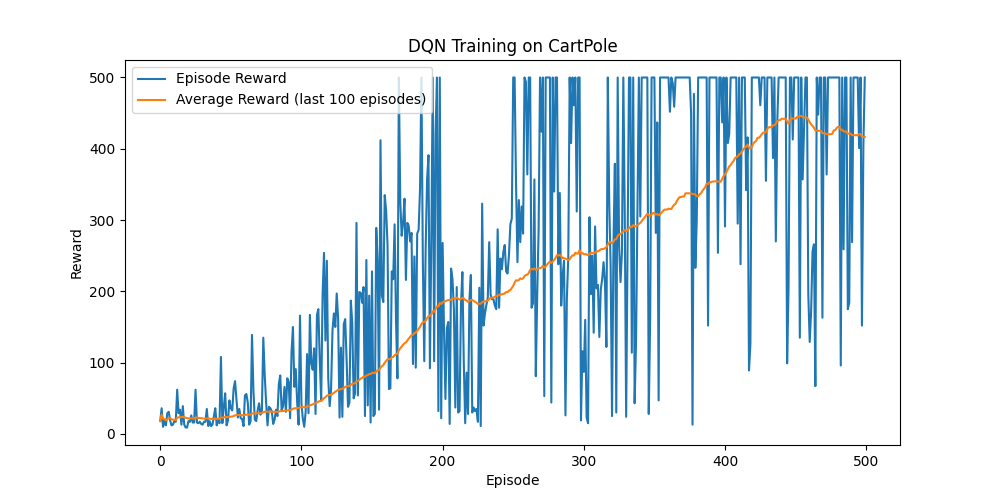
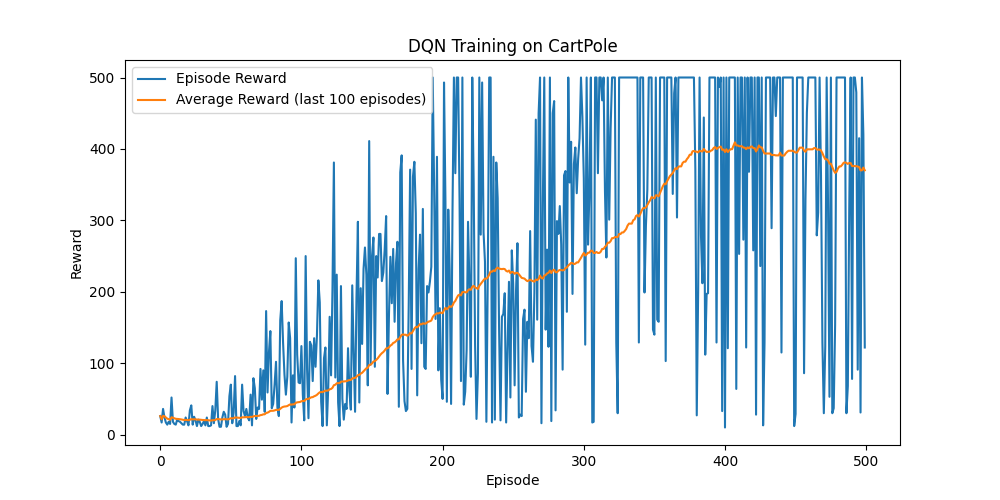
perf: 优化GPU训练性能 - 增加网络规模(64→256隐藏层，增加一层) - 根据设备类型自动选择批量大小(GPU:512, CPU:64) - 添加hidden_dim参数支持动态网络大小 - 解决小规模网络GPU训练慢的问题 - 提高GPU并行计算利用率

Changed region(s): [[0.155, 0.15, 0.868, 0.87], [0.093, 0.72, 0.124, 0.75]]

diff --git a/CartPole_DQN/train.py b/CartPole_DQN/train.py
@@ -14,7 +14,10 @@ def parse_args():
     parser.add_argument("--env_name", type=str, default="CartPole-v1", help="环境名称")
     parser.add_argument("--num_episodes", type=int, default=500, help="训练的总episode数")
     parser.add_argument("--max_steps", type=int, default=500, help="每个episode的最大步数")
-    parser.add_argument("--batch_size", type=int, default=64, help="批量大小")
+    parser.add_argument("--batch_size", type=int, default=256, help="批量大小")
+    parser.add_argument("--hidden_dim", type=int, default=256, help="隐藏层大小")
+    parser.add_argument("--gpu_batch_size", type=int, default=512, help="GPU训练时的批量大小")
+    parser.add_argument("--cpu_batch_size", type=int, default=64, help="CPU训练时的批量大小")
     parser.add_argument("--learning_rate", type=float, default=1e-3, help="学习率")
     parser.add_argument("--gamma", type=float, default=0.99, help="折扣因子")
     parser.add_argument("--epsilon_start", type=float, default=1.0, help="初始epsilon值")
@@ -206,6 +209,9 @@ if __name__ == "__main__":
     num_episodes = args.num_episodes
     max_steps = args.max_steps
     batch_size = args.batch_size
+    hidden_dim = args.hidden_dim
+    gpu_batch_size = args.gpu_batch_size
+    cpu_batch_size = args.cpu_batch_size
     learning_rate = args.learning_rate
     gamma = args.gamma
     epsilon_start = args.epsilon_start
@@ -228,6 +234,18 @@ if __name__ == "__main__":
         use_gpu = True
         print("自动检测GPU设备")
     
+    # 根据设备类型优化参数
+    if use_gpu and (torch.backends.mps.is_available() or torch.cuda.is_available()):
+        # GPU优化参数
+        actual_batch_size = gpu_batch_size
+        actual_hidden_dim = hidden_dim
+        print(f"GPU优化: 批量大小={actual_batch_size}, 隐藏层大小={actual_hidden_dim}")
+    else:
+        # CPU优化参数  
+        actual_batch_size = cpu_batch_size
+        actual_hidden_dim = 64  # CPU使用较小的网络
+        print(f"CPU优化: 批量大小={actual_batch_size}, 隐藏层大小={actual_hidden_dim}")
+    
     # 生成运行名称
     device_suffix = "gpu" if use_gpu else "cpu"
     run_name = f"{env_name}_{device_suffix}_{datetime.now().strftime('%Y%m%d_%H%M%S')}"
@@ -243,7 +261,10 @@ if __name__ == "__main__":
                 "env_name": env_name,
                 "num_episodes": num_episodes,
                 "max_steps": max_steps,
-                "batch_size": batch_size,
+                "batch_size": actual_batch_size,
+                "hidden_dim": actual_hidden_dim,
+                "gpu_batch_size": gpu_batch_size,
+                "cpu_batch_size": cpu_batch_size,
                 "learning_rate": learning_rate,
                 "gamma": gamma,
                 "epsilon_start": epsilon_start,
@@ -274,9 +295,10 @@ if __name__ == "__main__":
         epsilon_end=epsilon_end,
         epsilon_decay=epsilon_decay,
         buffer_capacity=buffer_capacity,
-        batch_size=batch_size,
+        batch_size=actual_batch_size,
         target_update=target_update,
-        use_gpu=use_gpu
+        use_gpu=use_gpu,
+        hidden_dim=actual_hidden_dim
     )
 
     # 创建视频目录

diff --git a/CartPole_DQN/dqn_agent.py b/CartPole_DQN/dqn_agent.py
@@ -11,16 +11,18 @@ import argparse
 
 # 定义Q网络结构
 class QNetwork(nn.Module):
-    def __init__(self, state_dim, action_dim, hidden_dim=64):
+    def __init__(self, state_dim, action_dim, hidden_dim=256):
         super(QNetwork, self).__init__()
         self.fc1 = nn.Linear(state_dim, hidden_dim)
         self.fc2 = nn.Linear(hidden_dim, hidden_dim)
-        self.fc3 = nn.Linear(hidden_dim, action_dim)
+        self.fc3 = nn.Linear(hidden_dim, hidden_dim)
+        self.fc4 = nn.Linear(hidden_dim, action_dim)
         
     def forward(self, x):
         x = F.relu(self.fc1(x))
         x = F.relu(self.fc2(x))
-        return self.fc3(x)
+        x = F.relu(self.fc3(x))
+        return self.fc4(x)
 
 # 定义经验回放缓冲区
 class ReplayBuffer:
@@ -42,7 +44,7 @@ class ReplayBuffer:
 class DQNAgent:
     def __init__(self, state_dim, action_dim, learning_rate=1e-3, gamma=0.99, 
                  epsilon_start=1.0, epsilon_end=0.01, epsilon_decay=0.995, 
-                 buffer_capacity=10000, batch_size=64, target_update=10, use_gpu=True):
+                 buffer_capacity=10000, batch_size=64, target_update=10, use_gpu=True, hidden_dim=256):
         self.state_dim = state_dim
         self.action_dim = action_dim
         self.gamma = gamma  # 折扣因子
@@ -65,8 +67,8 @@ class DQNAgent:
         self.backward_time = 0.0
         
         # 创建Q网络和目标网络
-        self.q_network = QNetwork(state_dim, action_dim)
-        self.target_network = QNetwork(state_dim, action_dim)
+        self.q_network = QNetwork(state_dim, action_dim, hidden_dim)
+        self.target_network = QNetwork(state_dim, action_dim, hidden_dim)
         self.target_network.load_state_dict(self.q_network.state_dict())
         self.target_update = target_update
         self.update_count = 0
